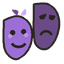
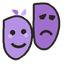
atelier: icone_culture — masque de tragédie éclairci (#6B4A88 → #A06FCE) pour la lisibilité sur fond sombre (retour Erik), comédie remontée d'un ton (#B491E4) pour garder la séparation des deux masques ; 64x64 inchangé, zéro gameplay

diff --git a/assets-src/tools/generate.py b/assets-src/tools/generate.py
@@ -2208,7 +2208,7 @@ def icone_culture(db, da=None, w=64, h=64, img=None):
     # masque de tragédie (arrière, à droite, plus haut) : violet profond
     trage = [(34, 4), (48, 4), (57, 13), (59, 26), (55, 40), (47, 49),
              (38, 47), (34, 36)]
-    db.smooth_poly(trage, fill="#6B4A88")
+    db.smooth_poly(trage, fill="#A06FCE")
     db.smooth_line(trage + [trage[0]], fill=INK, width=2)
     # yeux obliques tristes + sourcils penchés + bouche renversée (arc haut)
     db.smooth_poly([(39, 16), (46, 14), (44, 19), (40, 19)], fill=INK)
@@ -2217,17 +2217,17 @@ def icone_culture(db, da=None, w=64, h=64, img=None):
     # masque de comédie (avant, à gauche, plus bas) : violet clair
     come = [(4, 20), (18, 16), (29, 23), (32, 36), (28, 50), (18, 59),
             (9, 56), (4, 45)]
-    db.smooth_poly(come, fill="#9C6FD6")
+    db.smooth_poly(come, fill="#B491E4")
     db.smooth_line(come + [come[0]], fill=INK, width=2)
     # yeux ronds pétillants + grand sourire (arc bas)
     db.ellipse((10, 30, 15, 35), fill=INK)
     db.ellipse((21, 29, 26, 34), fill=INK)
     db.arc((10, 34, 27, 48), 25, 155, fill=INK, width=2.8)
     # joues rehaussées par le sourire
-    db.ellipse((8, 34, 12, 38), fill="#B995DE")
-    db.ellipse((24, 33, 28, 37), fill="#B995DE")
+    db.ellipse((8, 34, 12, 38), fill="#CDB2F0")
+    db.ellipse((24, 33, 28, 37), fill="#CDB2F0")
     # petit nœud de ruban au sommet du masque de comédie
-    db.smooth_poly([(16, 15), (12, 10), (18, 11), (17, 16)], fill="#6B4A88")
+    db.smooth_poly([(16, 15), (12, 10), (18, 11), (17, 16)], fill="#A06FCE")
     db.smooth_poly([(21, 14), (25, 9), (26, 14), (22, 16)], fill="#C6A8EC")
     # modelés : lumière sur le front des deux masques
     if img is not None:
